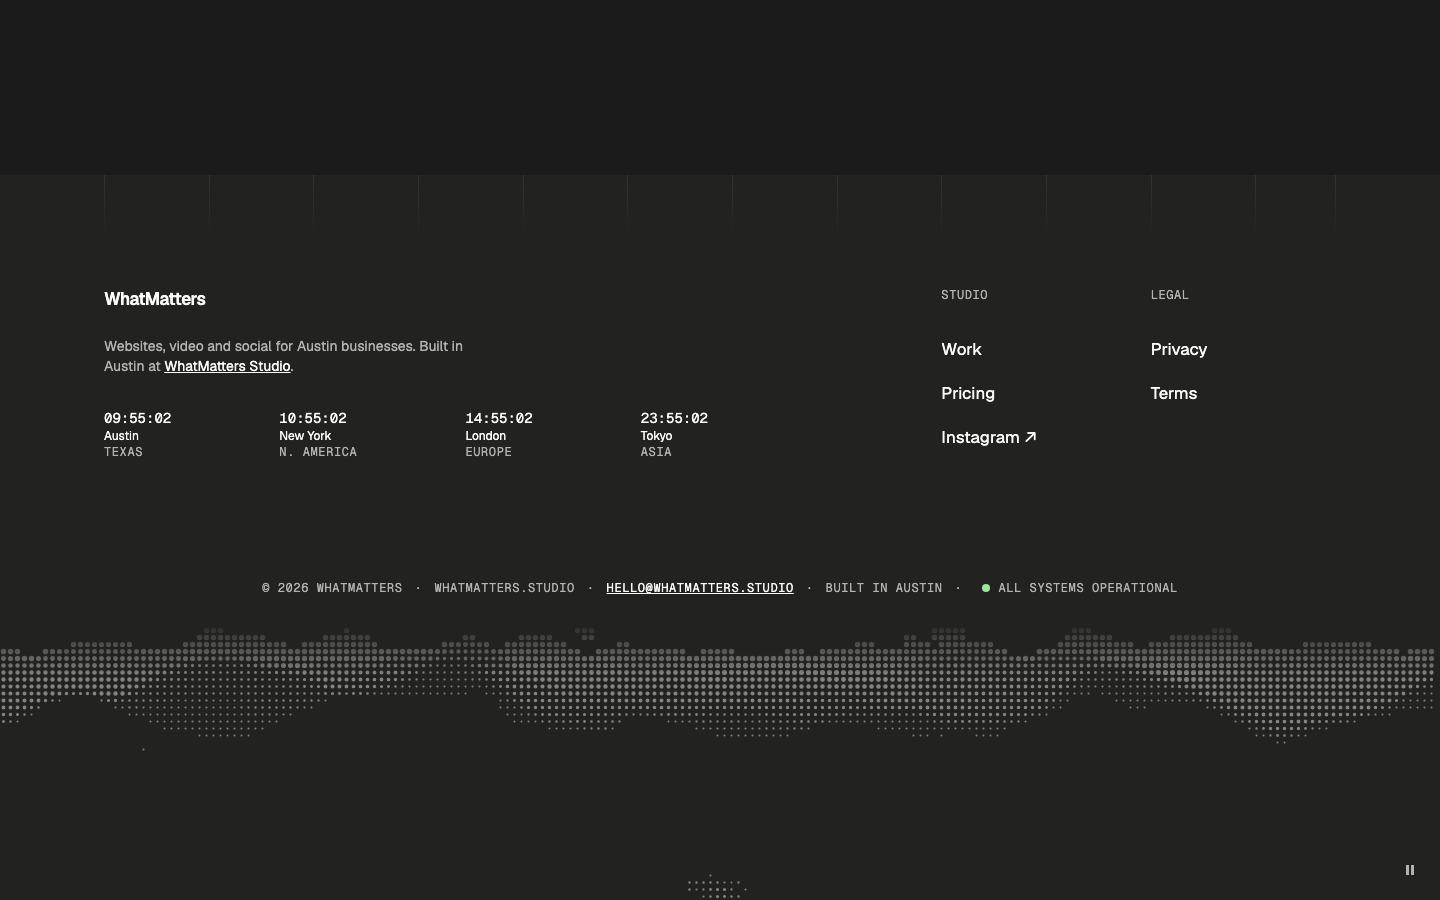
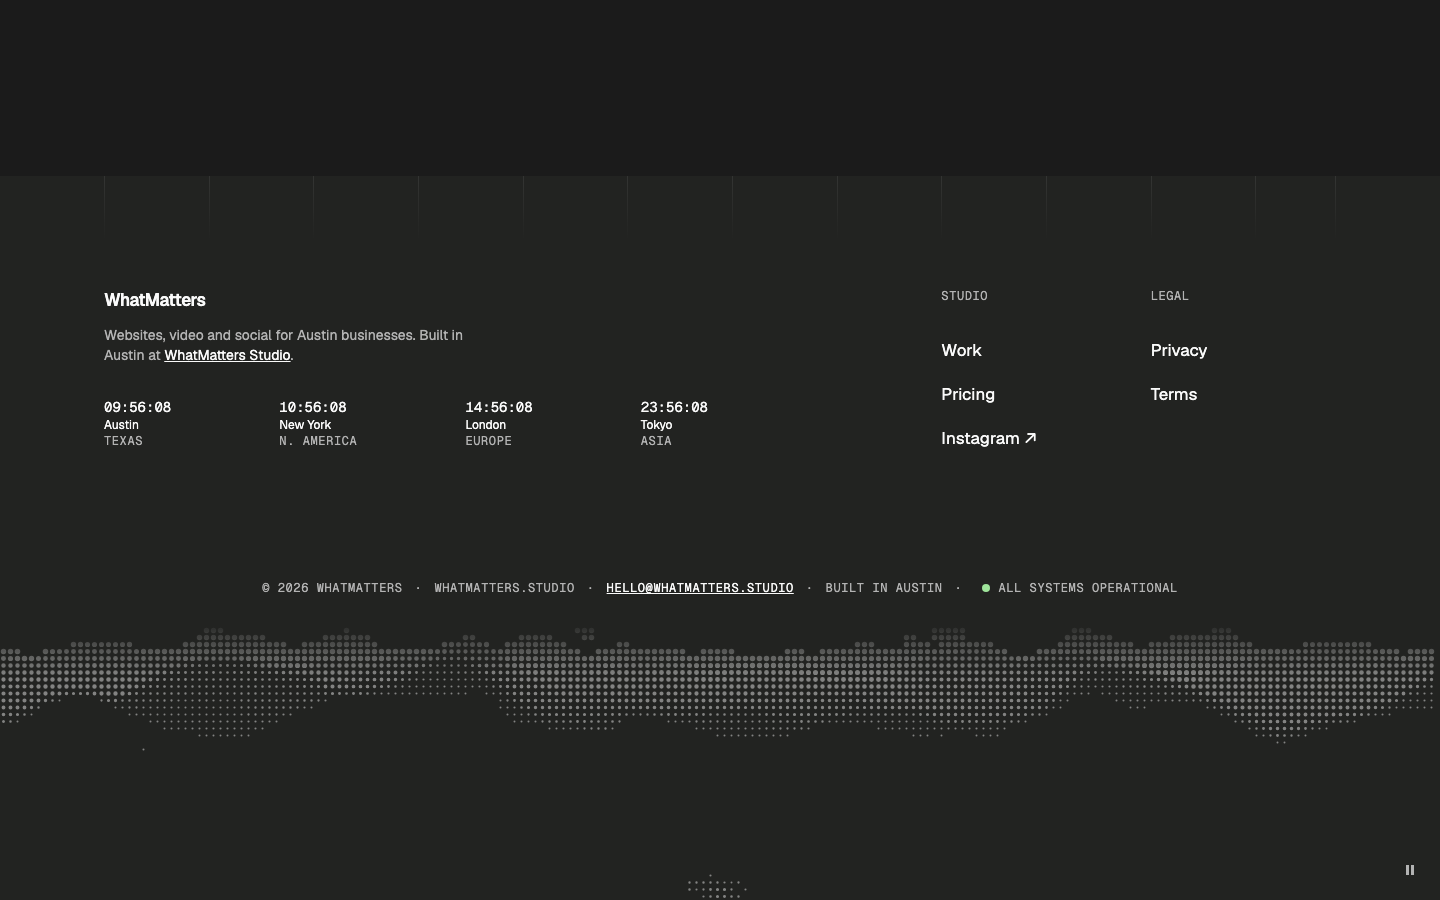
Footer — Landscape: tighter gap between brand and pitch

diff --git a/patterns/footer/landscape/FooterLandscape.tsx b/patterns/footer/landscape/FooterLandscape.tsx
@@ -44,7 +44,7 @@ const rulesClasses =
   "[&>span:nth-child(n+9)]:hidden lg:[&>span:nth-child(n+9)]:block";
 /** Content top: ~48px of clear paper below the rules (rules 48 / 64, content 80 / 112). */
 const gridClasses = "grid-page relative !pt-16 !pb-0 md:!pt-20 lg:!pt-28";
-const brandBlockClasses = "col-span-full flex flex-col gap-6 md:col-span-5 lg:col-span-6";
+const brandBlockClasses = "col-span-full flex flex-col gap-3 md:col-span-5 lg:col-span-6";
 const pitchClasses = "max-w-[40ch] text-muted type-body [&_a]:text-fg [&_a]:underline";
 /** Links: right-aligned block (2 columns of the grid each); 3–4 columns take their own row. */
 const linksClasses = {
@@ -83,7 +83,7 @@ export function FooterLandscape({ brand, pitch, clocks, links = [], facts = [], 
             </p>
           ) : null}
           {clocks != null ? (
-            <div className="mt-2" data-slot="clocks" data-slot-optional="">
+            <div className="mt-5" data-slot="clocks" data-slot-optional="">
               {clocks}
             </div>
           ) : null}
